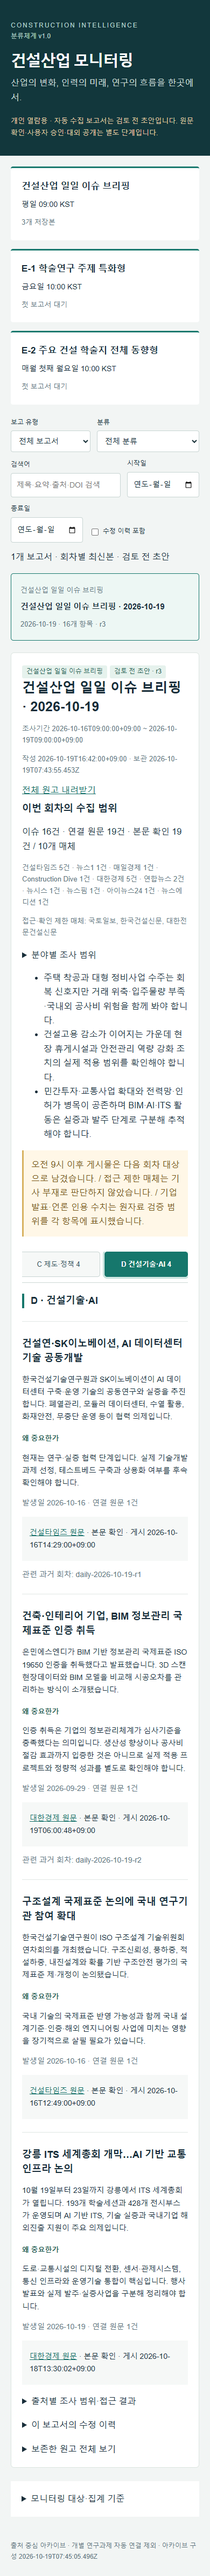
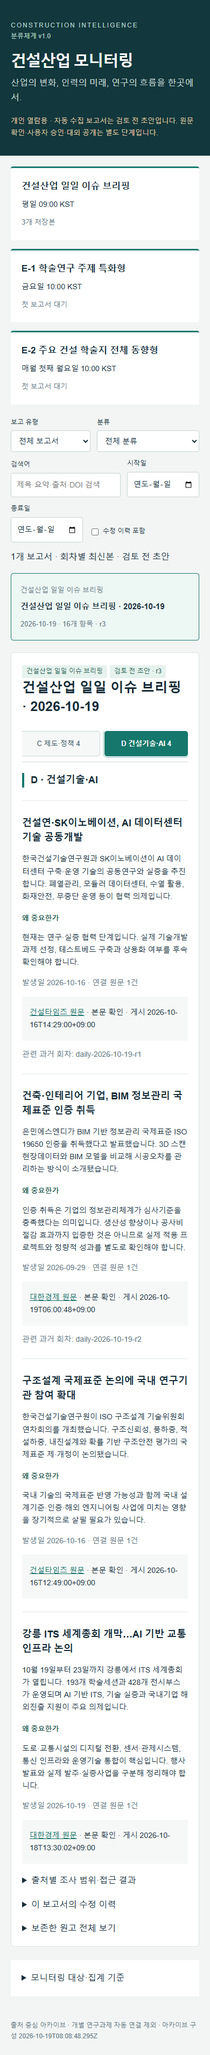
Simplify daily briefing header

Changed region(s): [[0.0, 0.0, 1.0, 0.9982], [0.9231, 0.2183, 0.9538, 0.2495], [0.6462, 0.967, 0.6769, 0.9982]]

diff --git a/dist/app.js b/dist/app.js
@@ -4,19 +4,19 @@ const label=r=>catalog.config.schedules[r.kind].label;
 const classification=x=>catalog.config.categories[x]||catalog.config.topics[x]||x;
 function link(url,text){const a=el('a',text);a.href=url;a.target='_blank';a.rel='noopener noreferrer';return a;}
 function download(r){const b=new Blob([r.markdown],{type:'text/markdown;charset=utf-8'}),u=URL.createObjectURL(b);const a=link(u,'전체 원고 내려받기');a.download=r.id+'.md';a.onclick=()=>setTimeout(()=>URL.revokeObjectURL(u),1000);return a;}
-function collectionPanel(r){const q=r.collectionQuality;if(!q)return null;const p=el('section',undefined,'collection-panel');p.append(el('h3','이번 회차의 수집 범위'),el('p',`이슈 ${q.issueCount}건 · 연결 원문 ${q.registeredArticles}건 · 본문 확인 ${q.bodyArticles}건 / ${q.publisherCount}개 매체`),el('p',Object.entries(q.publisherCounts).map(([name,n])=>name+' '+n+'건').join(' · ')||'이관 자료: 이번 회차 본문 확인 기록 없음','muted'));if(q.warnings.length)p.append(el('p','확인 기록: '+q.warnings.join(' / '),'warning'));if(q.accessLimits.length)p.append(el('p','접근·확인 제한 매체: '+q.accessLimits.join(', '),'muted'));const det=el('details');det.append(el('summary','분야별 조사 범위'));q.domains.forEach(x=>det.append(el('p',`${x.id} ${catalog.config.categories[x.id]} · ${x.count}건 · ${x.status} · ${x.note}`)));p.append(det);return p;}
-
 function issueSection(x,r){const section=el('section',undefined,'item');if(r.kind!=='daily')section.append(el('span',classification(x.classification),'badge'));if(x.journalId)section.append(el('span',x.journalId,'badge'));section.append(el('h3',x.title),el('p',x.summary),el('h4','왜 중요한가'),el('p',x.interpretation),el('p',`발생일 ${x.eventDate||'미확인'} · 연결 원문 ${x.sources.length}건`,'muted'));if(x.aiUse)section.append(el('p',`AI 활용 ${x.aiUse} · 확인 수준 ${x.evidenceLevel} · DOI ${x.doi||'미확인'}`,'muted'));
  const sources=el('div',undefined,'sources');for(const s of x.sources){const p=el('p');const level={body:'본문 확인',index:'검색 발견·본문 미확인',legacy:'이관 기록'}[s.readLevel]||'이관 기록';p.append(link(s.url,s.publisher+' 원문'),document.createTextNode(' · '+level+' · 게시 '+(s.publishedAt||s.publishedDate||'미확인')));sources.append(p);}section.append(sources);if(x.previousReports.length)section.append(el('p','관련 과거 회차: '+x.previousReports.join(', '),'muted'));if(x.alternatives.length){const det=el('details');det.append(el('summary','같은 사건의 추가 보도 '+x.alternatives.length+'건'));x.alternatives.forEach(a=>det.append(el('p',a.title+' — '+a.summary+' / '+a.interpretation)));section.append(det);}return section;}
 
 function dailyTabs(r,d){const tabs=el('div',undefined,'domain-tabs');tabs.setAttribute('role','tablist');tabs.setAttribute('aria-label','브리핑 분야');const panel=el('div',undefined,'domain-panel');const ids=Object.keys(catalog.config.categories);if(!ids.includes(activeDailyTab))activeDailyTab='A';
  const draw=()=>{panel.replaceChildren();const items=r.items.filter(x=>x.classification===activeDailyTab);panel.append(el('h3',`${activeDailyTab} · ${catalog.config.categories[activeDailyTab]}`,'domain-heading'));items.forEach(x=>panel.append(issueSection(x,r)));tabs.querySelectorAll('button').forEach(b=>{const on=b.dataset.domain===activeDailyTab;b.classList.toggle('active',on);b.setAttribute('aria-selected',String(on));b.tabIndex=on?0:-1;});};
  ids.forEach((id,index)=>{const count=r.items.filter(x=>x.classification===id).length,b=el('button',`${id} ${catalog.config.categories[id]} ${count}`,'domain-tab');b.type='button';b.dataset.domain=id;b.setAttribute('role','tab');b.onclick=()=>{activeDailyTab=id;draw();};b.onkeydown=e=>{if(!['ArrowLeft','ArrowRight'].includes(e.key))return;e.preventDefault();const next=(index+(e.key==='ArrowRight'?1:-1)+ids.length)%ids.length;tabs.children[next].focus();tabs.children[next].click();};tabs.append(b);});d.append(tabs,panel);draw();}
-function show(r){selected=r.id;const d=$('#detail');d.replaceChildren(el('span',label(r),'badge'),el('span','검토 전 초안 · r'+r.revision,'badge'),el('h2',r.title),el('p','조사기간 '+r.window.from+' ~ '+r.window.to,'muted'),el('p','작성 '+r.generatedAt+' · 보관 '+r.storedAt,'muted'),download(r));
- const panel=collectionPanel(r);if(panel)d.append(panel);
- const ul=el('ul');r.highlights.forEach(h=>ul.append(el('li',h)));d.append(ul);if(r.limitations.length)d.append(el('p',r.limitations.join(' / '),'warning'));
- if(r.statistics){const s=r.statistics;d.append(el('h3','수집 범위 내 논문 분포'),el('p',`중복 제거 ${s.total}편 · AI 활용 ${s.ai}편 / 전체 ${s.total}편 · AI 여부 미확인 ${s.unknown}편`));const t=el('table');for(const [k,v] of Object.entries(s.counts)){const row=el('tr');row.append(el('td',k),el('td',String(v)+'편'));t.append(row);}d.append(t);}
- if(r.kind==='daily')dailyTabs(r,d);else r.items.forEach(x=>d.append(issueSection(x,r)));
+function show(r){selected=r.id;const d=$('#detail');d.replaceChildren(el('span',label(r),'badge'),el('span','검토 전 초안 · r'+r.revision,'badge'),el('h2',r.title));
+ if(r.kind==='daily'){dailyTabs(r,d)}else{
+  d.append(el('p','조사기간 '+r.window.from+' ~ '+r.window.to,'muted'),el('p','작성 '+r.generatedAt+' · 보관 '+r.storedAt,'muted'),download(r));
+  const ul=el('ul');r.highlights.forEach(h=>ul.append(el('li',h)));d.append(ul);if(r.limitations.length)d.append(el('p',r.limitations.join(' / '),'warning'));
+  if(r.statistics){const s=r.statistics;d.append(el('h3','수집 범위 내 논문 분포'),el('p',`중복 제거 ${s.total}편 · AI 활용 ${s.ai}편 / 전체 ${s.total}편 · AI 여부 미확인 ${s.unknown}편`));const t=el('table');for(const [k,v] of Object.entries(s.counts)){const row=el('tr');row.append(el('td',k),el('td',String(v)+'편'));t.append(row);}d.append(t);}
+  r.items.forEach(x=>d.append(issueSection(x,r)));
+ }
  const coverage=el('details');coverage.append(el('summary','출처별 조사 범위·접근 결과'));r.coverage.forEach(c=>coverage.append(el('p',`${c.sourceId} · ${c.status} · ${c.note}`)));d.append(coverage);
  const history=el('details');history.append(el('summary','이 보고서의 수정 이력'));catalog.reports.filter(p=>p.kind===r.kind&&p.cycle===r.cycle).forEach(p=>{const b=el('button',`r${p.revision} · ${p.generatedAt}`);b.onclick=()=>show(p);history.append(b);});d.append(history);const raw=el('details');raw.append(el('summary','보존한 원고 전체 보기'),el('pre',r.markdown));d.append(raw);
  document.querySelectorAll('.report').forEach(b=>b.classList.toggle('active',b.dataset.id===selected));}

diff --git a/src/app.js b/src/app.js
@@ -4,19 +4,19 @@ const label=r=>catalog.config.schedules[r.kind].label;
 const classification=x=>catalog.config.categories[x]||catalog.config.topics[x]||x;
 function link(url,text){const a=el('a',text);a.href=url;a.target='_blank';a.rel='noopener noreferrer';return a;}
 function download(r){const b=new Blob([r.markdown],{type:'text/markdown;charset=utf-8'}),u=URL.createObjectURL(b);const a=link(u,'전체 원고 내려받기');a.download=r.id+'.md';a.onclick=()=>setTimeout(()=>URL.revokeObjectURL(u),1000);return a;}
-function collectionPanel(r){const q=r.collectionQuality;if(!q)return null;const p=el('section',undefined,'collection-panel');p.append(el('h3','이번 회차의 수집 범위'),el('p',`이슈 ${q.issueCount}건 · 연결 원문 ${q.registeredArticles}건 · 본문 확인 ${q.bodyArticles}건 / ${q.publisherCount}개 매체`),el('p',Object.entries(q.publisherCounts).map(([name,n])=>name+' '+n+'건').join(' · ')||'이관 자료: 이번 회차 본문 확인 기록 없음','muted'));if(q.warnings.length)p.append(el('p','확인 기록: '+q.warnings.join(' / '),'warning'));if(q.accessLimits.length)p.append(el('p','접근·확인 제한 매체: '+q.accessLimits.join(', '),'muted'));const det=el('details');det.append(el('summary','분야별 조사 범위'));q.domains.forEach(x=>det.append(el('p',`${x.id} ${catalog.config.categories[x.id]} · ${x.count}건 · ${x.status} · ${x.note}`)));p.append(det);return p;}
-
 function issueSection(x,r){const section=el('section',undefined,'item');if(r.kind!=='daily')section.append(el('span',classification(x.classification),'badge'));if(x.journalId)section.append(el('span',x.journalId,'badge'));section.append(el('h3',x.title),el('p',x.summary),el('h4','왜 중요한가'),el('p',x.interpretation),el('p',`발생일 ${x.eventDate||'미확인'} · 연결 원문 ${x.sources.length}건`,'muted'));if(x.aiUse)section.append(el('p',`AI 활용 ${x.aiUse} · 확인 수준 ${x.evidenceLevel} · DOI ${x.doi||'미확인'}`,'muted'));
  const sources=el('div',undefined,'sources');for(const s of x.sources){const p=el('p');const level={body:'본문 확인',index:'검색 발견·본문 미확인',legacy:'이관 기록'}[s.readLevel]||'이관 기록';p.append(link(s.url,s.publisher+' 원문'),document.createTextNode(' · '+level+' · 게시 '+(s.publishedAt||s.publishedDate||'미확인')));sources.append(p);}section.append(sources);if(x.previousReports.length)section.append(el('p','관련 과거 회차: '+x.previousReports.join(', '),'muted'));if(x.alternatives.length){const det=el('details');det.append(el('summary','같은 사건의 추가 보도 '+x.alternatives.length+'건'));x.alternatives.forEach(a=>det.append(el('p',a.title+' — '+a.summary+' / '+a.interpretation)));section.append(det);}return section;}
 
 function dailyTabs(r,d){const tabs=el('div',undefined,'domain-tabs');tabs.setAttribute('role','tablist');tabs.setAttribute('aria-label','브리핑 분야');const panel=el('div',undefined,'domain-panel');const ids=Object.keys(catalog.config.categories);if(!ids.includes(activeDailyTab))activeDailyTab='A';
  const draw=()=>{panel.replaceChildren();const items=r.items.filter(x=>x.classification===activeDailyTab);panel.append(el('h3',`${activeDailyTab} · ${catalog.config.categories[activeDailyTab]}`,'domain-heading'));items.forEach(x=>panel.append(issueSection(x,r)));tabs.querySelectorAll('button').forEach(b=>{const on=b.dataset.domain===activeDailyTab;b.classList.toggle('active',on);b.setAttribute('aria-selected',String(on));b.tabIndex=on?0:-1;});};
  ids.forEach((id,index)=>{const count=r.items.filter(x=>x.classification===id).length,b=el('button',`${id} ${catalog.config.categories[id]} ${count}`,'domain-tab');b.type='button';b.dataset.domain=id;b.setAttribute('role','tab');b.onclick=()=>{activeDailyTab=id;draw();};b.onkeydown=e=>{if(!['ArrowLeft','ArrowRight'].includes(e.key))return;e.preventDefault();const next=(index+(e.key==='ArrowRight'?1:-1)+ids.length)%ids.length;tabs.children[next].focus();tabs.children[next].click();};tabs.append(b);});d.append(tabs,panel);draw();}
-function show(r){selected=r.id;const d=$('#detail');d.replaceChildren(el('span',label(r),'badge'),el('span','검토 전 초안 · r'+r.revision,'badge'),el('h2',r.title),el('p','조사기간 '+r.window.from+' ~ '+r.window.to,'muted'),el('p','작성 '+r.generatedAt+' · 보관 '+r.storedAt,'muted'),download(r));
- const panel=collectionPanel(r);if(panel)d.append(panel);
- const ul=el('ul');r.highlights.forEach(h=>ul.append(el('li',h)));d.append(ul);if(r.limitations.length)d.append(el('p',r.limitations.join(' / '),'warning'));
- if(r.statistics){const s=r.statistics;d.append(el('h3','수집 범위 내 논문 분포'),el('p',`중복 제거 ${s.total}편 · AI 활용 ${s.ai}편 / 전체 ${s.total}편 · AI 여부 미확인 ${s.unknown}편`));const t=el('table');for(const [k,v] of Object.entries(s.counts)){const row=el('tr');row.append(el('td',k),el('td',String(v)+'편'));t.append(row);}d.append(t);}
- if(r.kind==='daily')dailyTabs(r,d);else r.items.forEach(x=>d.append(issueSection(x,r)));
+function show(r){selected=r.id;const d=$('#detail');d.replaceChildren(el('span',label(r),'badge'),el('span','검토 전 초안 · r'+r.revision,'badge'),el('h2',r.title));
+ if(r.kind==='daily'){dailyTabs(r,d)}else{
+  d.append(el('p','조사기간 '+r.window.from+' ~ '+r.window.to,'muted'),el('p','작성 '+r.generatedAt+' · 보관 '+r.storedAt,'muted'),download(r));
+  const ul=el('ul');r.highlights.forEach(h=>ul.append(el('li',h)));d.append(ul);if(r.limitations.length)d.append(el('p',r.limitations.join(' / '),'warning'));
+  if(r.statistics){const s=r.statistics;d.append(el('h3','수집 범위 내 논문 분포'),el('p',`중복 제거 ${s.total}편 · AI 활용 ${s.ai}편 / 전체 ${s.total}편 · AI 여부 미확인 ${s.unknown}편`));const t=el('table');for(const [k,v] of Object.entries(s.counts)){const row=el('tr');row.append(el('td',k),el('td',String(v)+'편'));t.append(row);}d.append(t);}
+  r.items.forEach(x=>d.append(issueSection(x,r)));
+ }
  const coverage=el('details');coverage.append(el('summary','출처별 조사 범위·접근 결과'));r.coverage.forEach(c=>coverage.append(el('p',`${c.sourceId} · ${c.status} · ${c.note}`)));d.append(coverage);
  const history=el('details');history.append(el('summary','이 보고서의 수정 이력'));catalog.reports.filter(p=>p.kind===r.kind&&p.cycle===r.cycle).forEach(p=>{const b=el('button',`r${p.revision} · ${p.generatedAt}`);b.onclick=()=>show(p);history.append(b);});d.append(history);const raw=el('details');raw.append(el('summary','보존한 원고 전체 보기'),el('pre',r.markdown));d.append(raw);
  document.querySelectorAll('.report').forEach(b=>b.classList.toggle('active',b.dataset.id===selected));}
